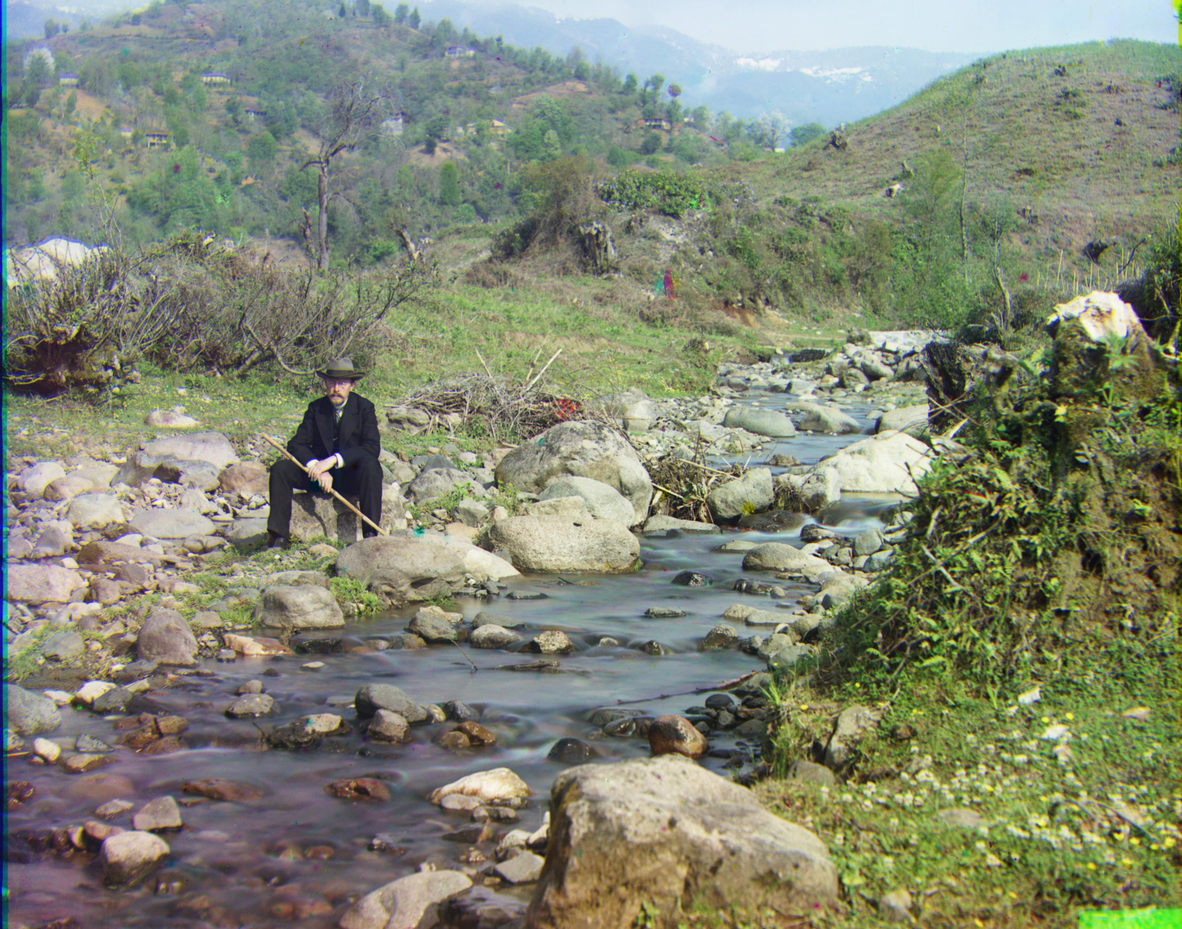
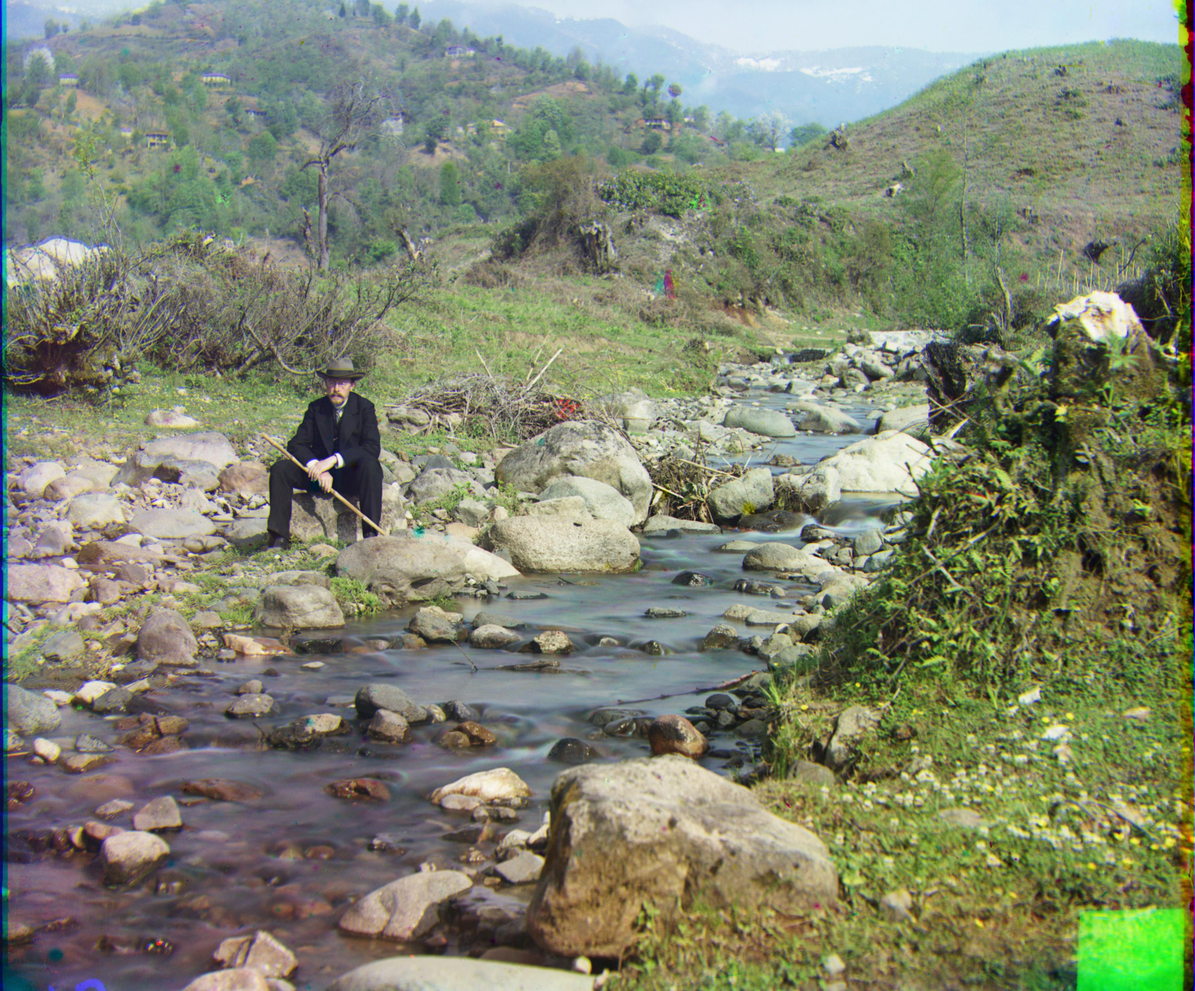
Draft write-up for project 1 before adding comparisons and results gallery

diff --git a/src/app/proj1/page.tsx b/src/app/proj1/page.tsx
@@ -51,36 +51,46 @@ export default function Page() {
             <article className="mr-[17vw] space-y-12">
                 <h1 className="font-bold">Project 1: Colorizing the Prokudin-Gorskii Photo Collection</h1>
                 <div className="flex flex-row w-full justify-center space-x-20">
-                    <Image
-                        key={"self_portrait_original"}
-                        src={getAssetPath("/proj1/self_portrait_original.jpg")}
-                        alt={"Prokudin-Gorskii's self-portrait before aligning the colorized glass plates"}
-                        height={1080}
-                        width={1080}
-                        style={{ width: "25vw", height: 'auto' }}
-                    />
-                    <Image
-                        key={"self_portrait_aligned"}
-                        src={getAssetPath("/proj1/self_portrait_out.jpg")}
-                        alt={"Prokudin-Gorskii's self-portrait after cropping black/white edges and aligning using image pyramids"}
-                        height={1080}
-                        width={1080}
-                        style={{ width: "25vw", height: 'auto' }}
-                    />
+                    <figure className="mx-auto flex w-full max-w-2xl flex-col items-center">
+                        <Image
+                            key={"self_portrait_original"}
+                            src={getAssetPath("/proj1/self_portrait_original.jpg")}
+                            alt={"Prokudin-Gorskii's self-portrait before aligning the colorized glass plates"}
+                            height={1080}
+                            width={1080}
+                            style={{ width: "auto", height: "40vh" }}
+                        />
+                        <figcaption className="mt-2 text-center text-sm leading-relaxed text-gray-600">
+                            Prokudin-Gorskii's self-portrait before aligning
+                        </figcaption>
+                    </figure>
+                    <figure className="mx-auto flex w-full max-w-2xl flex-col items-center">
+                        <Image
+                            key={"self_portrait_out"}
+                            src={getAssetPath("/proj1/self_portrait_out.jpg")}
+                            alt={"Prokudin-Gorskii's self-portrait after aligning the colorized glass plates"}
+                            height={1080}
+                            width={1080}
+                            style={{ width: "auto", height: "40vh" }}
+                        />
+                        <figcaption className="mt-2 text-center text-sm leading-relaxed text-gray-600">
+                            The final results of auto-aligning the glass plates of Prokudin-Gorskii's self-portrait
+                        </figcaption>
+                    </figure>
                 </div>
                 <section id="context" className="space-y-5">
                     <h2 className="font-medium">Background Context</h2>
                     <p>
-                        RGB is the ubiquitous color model used by 21st-century electronic devices to display color.
+                        Almost all 21st-century electronic displays use RGB to display color!
                         In the RGB color model, red, green, and blue primary colors of light are added together to form the full spectrum of human-visible colors.
                         The reason that red, green, and blue were specifically chosen actually has to do with the physiology of the human eye!
                         Humans have 2 kinds of light-sensitive receptor cells in their eyes: cones and rods.
                         Cones are responsible for color vision, and most humans have 3 kinds of cones: S, M, and L cones.
                         S stands for "short" wavelength, M stands for "medium" wavelength, and L stands for "long" wavelengths.
-                        We perceive different wavelengths of light between 400 nm and 700 nm as different colors.
-                        The S cone is most sensitive to light with a wavelength of 440 nm (the color blue!).
-                        The M cone's light sensitivity peak is 530 nm (the color green).
-                        And lastly, the L cone's light sensitivity peak is 560 nm (the color red).
+                        We perceive different wavelengths of light between 400nm and 700nm as different colors.
+                        The S cone is most sensitive to light with a wavelength of 440nm (the color blue!).
+                        The M cone's light sensitivity peak is 530nm (the color green).
+                        And lastly, the L cone's light sensitivity peak is 560nm (the color red).
 
                         So the RGB model directly corresponds to the 3 colors our eyes are most sensitive to!
                     </p>
@@ -117,12 +127,12 @@ export default function Page() {
                             on each plate produced as a side-effect of digital scanning.
                         </li>
                         <li>
-                            - Aligns the green plate to the blue plate by searching over a range of possible displacements (dy, dx)
-                            and finding the displacement that optimizes some metric (e.g. L2 Norm between the pixel values of both plates or normalized-cross-correlation)
+                            - Aligns the green plate to the blue plate by searching over a range of possible displacements <code>(dy, dx)</code> and
+                            finding the displacement that optimizes some metric (e.g. L2 Norm between the pixel values of both plates or normalized-cross-correlation)
                             representing how well the images align together.
                         </li>
                         <li>
-                            - Similarly, aligns the red plate to the blue plate by finding the displacement (dy, dx) that results in the best image alignment metric.
+                            - Similarly, aligns the red plate to the blue plate by finding the displacement <code>(dy, dx)</code> that results in the best image alignment metric.
                         </li>
                         <li>
                             - Shifts the green plate by the best displacement found for aligning green to blue. Shifts the red plate by the best displacement found for aligning red to blue.
@@ -131,8 +141,8 @@ export default function Page() {
                         <li>
                             - (Bells and whistles) Post-process the final color image after stacking, such as by trimming the edges of the
                             final image that don't correspond to pixels where the 3 color plates actually overlapped. For instance,
-                            my implementation uses np.roll to shift the green and red plates after finding the optimal displacement vectors.
-                            np.roll wraps pixels from one side to the opposite side, so sometimes certain pixels on the outer edges of the final
+                            my implementation uses <code>np.roll</code> to shift the green and red plates after finding the optimal displacement vectors.
+                            <code>np.roll</code> wraps pixels from one side to the opposite side, so sometimes certain pixels on the outer edges of the final
                             color image weren't actually in that location in the real scene — they've just been wrapped around to the other side.
                         </li>
                         <li>
@@ -147,8 +157,8 @@ export default function Page() {
                     <h2 className="font-medium">Single-Scale Alignment</h2>
                     <p>
                         The simplest way to align the color plates is to search for the best alignment at a single scale/resolution of the color plates.
-                        I implemented single-scale alignment using a double-nested for-loop that iterated through (dy, dx) pairs.
-                        For each candidate displacement, I shifted one plate by the amount (dy, dx) — a positive dy displacement meant shifting
+                        I implemented single-scale alignment using a double-nested for-loop that iterated through <code>(dy, dx)</code> pairs.
+                        For each candidate displacement, I shifted one plate by the amount <code>(dy, dx)</code> — a positive dy displacement meant shifting
                         the plate DOWN by dy pixels, and a positive dx displacement meant shifting the plate RIGHT by dx pixels. I used this convention
                         to match up with how NumPy sets the origin (0, 0) as corresponding to the top-left corner of an image array, and how the first
                         index in the tuple (i, j) describing the location of the (i, j)-th pixel corresponds to that pixels' row location and the second index
@@ -182,11 +192,130 @@ export default function Page() {
                     />
                     <p>NB: One way to apply these difference metrics to 2D image matrices instead of vectors is by unraveling the matrix into a long, 1-dimensional vector.</p>
 
-                </section>
-                <section id="image_pyramids"><h2 className="font-medium">Image Pyramids</h2></section>
-                <section id="bells_and_whistles"><h2 className="font-medium">Bells and Whistles!</h2></section>
-            </article>
+                    <p>
+                        Using single-scale automatic alignment and searching over a range of [-15, 15] for dy and dx worked well on the smaller digitized glass plate data!
+                        Here are the results of single-scale automatic alignment on monastery.jpg, where each glass plate has dimensions (341px, 391px).
+                    </p>
 
+                    <div className="flex flex-row w-full justify-center space-x-20">
+                        <figure className="mx-auto flex w-full max-w-2xl flex-col items-center">
+                            <Image
+                                key={"monastery_original"}
+                                src={getAssetPath("/proj1/monastery_original.jpg")}
+                                alt={"Monastery original"}
+                                height={1080}
+                                width={1080}
+                                style={{ width: "auto", height: "40vh" }}
+                            />
+                            <figcaption className="mt-2 text-center text-sm leading-relaxed text-gray-600">
+                                monastery.jpg before automatic alignment
+                            </figcaption>
+                        </figure>
+                        <figure className="mx-auto flex w-full max-w-2xl flex-col items-center">
+                            <Image
+                                key={"monastery_out"}
+                                src={getAssetPath("/proj1/monastery_out.jpg")}
+                                alt={"Monastery aligned"}
+                                height={1080}
+                                width={1080}
+                                style={{ width: "auto", height: "40vh" }}
+                            />
+                            <figcaption className="mt-2 text-center text-sm leading-relaxed text-gray-600">
+                                monastery.jpg after single-scale alignment with NCC
+                            </figcaption>
+                        </figure>
+                    </div>
+                    <p>
+                        However, when trying to align hi-res glass plates where the each side is measured in thousands of pixels, the glass plates have much bigger
+                        margins of displacement so we have to search over much larger windows for dy and dx. Instead of brute-force searching over hundreds or thousands of
+                        displacements, automatic alignment can use image pyramids to hierarchically refine the best-estimate displacement at multiple scales!
+                    </p>
+                </section>
+                <section id="image_pyramids" className="space-y-5">
+                    <h2 className="font-medium">Image Pyramids</h2>
+                    <p>
+                        An image pyramid is a strategy in image-processing algorithms where the image is scaled to different resolutions and processed hierarchically.
+                        I incorporated image pyramids into my automatic alignment algorithm by recursively calling the automatic alignment algorithm on a downsampled
+                        version of the color plate and the base plate, where each time I rescaled the dimensions by 1/2.
+                        I set the base case to be when the plates shrunk down to a width or height of under 200 px.
+                        At the base case, I simply performed a brute-force search over a window of [-15, 15] with (0, 0) as the initial estimate for the displacements <code>(dy, dx)</code>.
+                        The base case returns a displacement vector <code>(dy, dx)</code> that represents the current best estimate for how to align the two plates at this coarse resolution.
+                    </p>
+                    <p>
+                        Back in the recursive caller, I first scale the returned displacement vector <code>(dy, dx)</code> by 2x — the raw <code>(dy, dx)</code>
+                        represents how much the downsampled plates with 1/2 the width and 1/2 the height should be displaced to align with each other.
+                        Thus, these displacements should be scaled back up by a factor of 2x to correspond to the actual number of pixels that the
+                        higher resolution plates would need to be shifted by.
+                    </p>
+                    <p>
+                        The algorithm uses these scaled up displacement vectors as the centers for a new search neighborhood, this time with a smaller, more manageable search radius for dy and dx.
+                        If the algorithm finds a displacement with a better alignment metric during the course of searching in this new neighborhood, it saves
+                        the updated displacements.
+
+
+                        Finally, the algorithm returns the best displacements it's found so far after refining the initial estimates.
+                    </p>
+                    <p>
+                        This continues recursively back up the call stack until control flow returns back to the first automatic alignment function call, with
+                        the plates at their original, full dimensions.
+                    </p>
+                    <p className="mb-3">
+                        Of course, an image is worth a thousand coding experiments!
+                        Here are some additional features I implemented in my image pyramid automatic alignment algorithm to #makeitwork.
+                    </p>
+                    <ul className="space-y-3">
+                        <li>
+                            - <b>Ignoring the margins of the plates in the displacement search sub-function: </b>
+                            I observed that for many of the images, all 3 color plates had noticeable black or white borders.
+                            Since the pixel values are mostly the same for all 3 color plates along these borders, it's likely that
+                            the similarity of these pixels on the border would dominate the alignment metrics even though they don't
+                            provide useful signal for actually aligning the most important visual subjects in the scene. Therefore,
+                            in my displacement search sub-function, I included an adjustable margin to crop off from all 4 sides of the
+                            two plates before searching to remove the influence of these low-signal borders on the metric.
+                        </li>
+                        <li>
+                            - <b>Scoring the interior region of the two plates rather than the full image: </b>
+                            I hypothesized that most of the most useful signal for aligning the two plates together would be in the center of the image,
+                            away from the edges which could contain extraneous artifacts as a result of preservation or scanning.
+                            At the same time, scoring the largest interior rectangle possible would allow my algorithm to compare
+                            the largest proportion of pixels between the two plates for matches.
+                            < br />< br />
+                            So before searching, I first computed the largest possible interior rectangle from the base plate.
+                            < br />< br />
+                            I knew that given initial displacements <code>(dy_center, dx_center)</code> and radii <code>(dy_radius, dx_radius)</code>, the algorithm would shift
+                            the other plate by some vertical displacement within the range <code>[dy_center - dy_radius, dy_center + dy_radius]</code> and by some
+                            horizontal displacement within the range <code>[dx_center - dx_radius, dx_center + dx_radius]</code>.
+                            < br />< br />
+                            Based on this heuristic, I calculated left edges, right edges, top edges, and bottom edges of the base plate's interior rectangle
+                            such that even if the algo shifted the other plate, the regions of the shifted plate that would now be located on top of the
+                            chosen rectangle from the base plate would still be within bounds of the shifted plate; and therefore I could
+                            slice out a corresponding rectangle from the shifted plate to compare with the base plate's interior rectangle without going out of bounds.
+                            < br />< br />
+                            For instance, assume that the rectangle from the base plate has the following coordinates: y0 (top edge), y1 (bottom edge), x0 (left edge), and x1 (right edge).
+                            This rectangle can be extracted from the base plate as follows: <code>base_plate[y0:y1, x0:x1]</code>.
+                            Also assume that the other color plate is being shifted by <code><code>(dy, dx)</code></code>, where positive dy is a shift downwards and positive dx is a shift rightwards.
+                            Then the pixels from the other color plate that are now mapped on top of the base plate's chosen rectangle are <code>plate[y0 - dy : y1 - dy, x0 - dx : x1 - dx]</code>.
+                            Thus, I needed to make sure that this change-of-coordinates always stayed within bounds of the other color plate, and also didn't
+                            index into the ignored margins!
+                        </li>
+                        <li>
+                            - <b>Trimming non-overlapping pixels from the edges of the final color image after all plates were stacked: </b>
+                            When using <code>np.roll</code> to shift the pixels of the G and R plates, sometimes the pixels on one edge are wrapped around to the opposite edge.
+                            As a result, the edges of the final color image might contain some pixels which were actually on the opposite side of the real scene.
+                            I use the displacement vectors for the G plates and R plates to calculate the smallest margin I can trim away on each of the 4 sides
+                            of the final stacked iamge to remove these non-sequitur pixels.
+                        </li>
+                    </ul>
+                </section>
+                <section id="bells_and_whistles" className="space-y-5">
+                    <h2 className="font-medium">Bells and Whistles!</h2>
+                    <b>Automatic cropping and detecting solid-color borders: </b> Before aligning the color plates to one another, I cropped the white and black borders from all 3 plates.
+                    To detect whether a row or column should be cropped, I computed the fraction of elements in a given row/column whose pixel values were within
+                    a tolerance of 0.1 from 1.0 (white) or 0.1 (an approximation for black). As long as more than 70% of the pixels in this row/column were the target color,
+                    the algorithm considered them part of the solid-color border. The algorithm would then continue scanning inwards until it found a row/column where less than
+                    70% of the pixels were within tolerance of the solid-color border, or until it hit a max crop limit of 5% of the full height/width.
+                </section>
+            </article>
             <aside className="fixed right-0 top-20 hidden h-fit max-h-[70vh] w-[15vw] min-w-[150px] px-4 overflow-y-auto border-l-2 border-gray-200 md:block">
                 <TableOfContents contents={contents} />
             </aside>

diff --git a/src/app/globals.css b/src/app/globals.css
@@ -3,6 +3,7 @@
 :root {
   --color-space-black: #0e1728;
   --color-cream: #f1e8d7;
+  --color-code-blue: #3776AB;
 }
 
 body {
@@ -15,9 +16,17 @@ html {
   scroll-padding-top: 5em;
 }
 
+ul {
+  margin-left: 1em;
+}
+
 @theme {
   --color-space-black: var(--color-space-black);
   --color-cream: var(--color-cream);
+}
+
+code {
+  color: var(--color-code-blue);
 }
 
 /* Settings for small view ports less than or equal to 768px */
